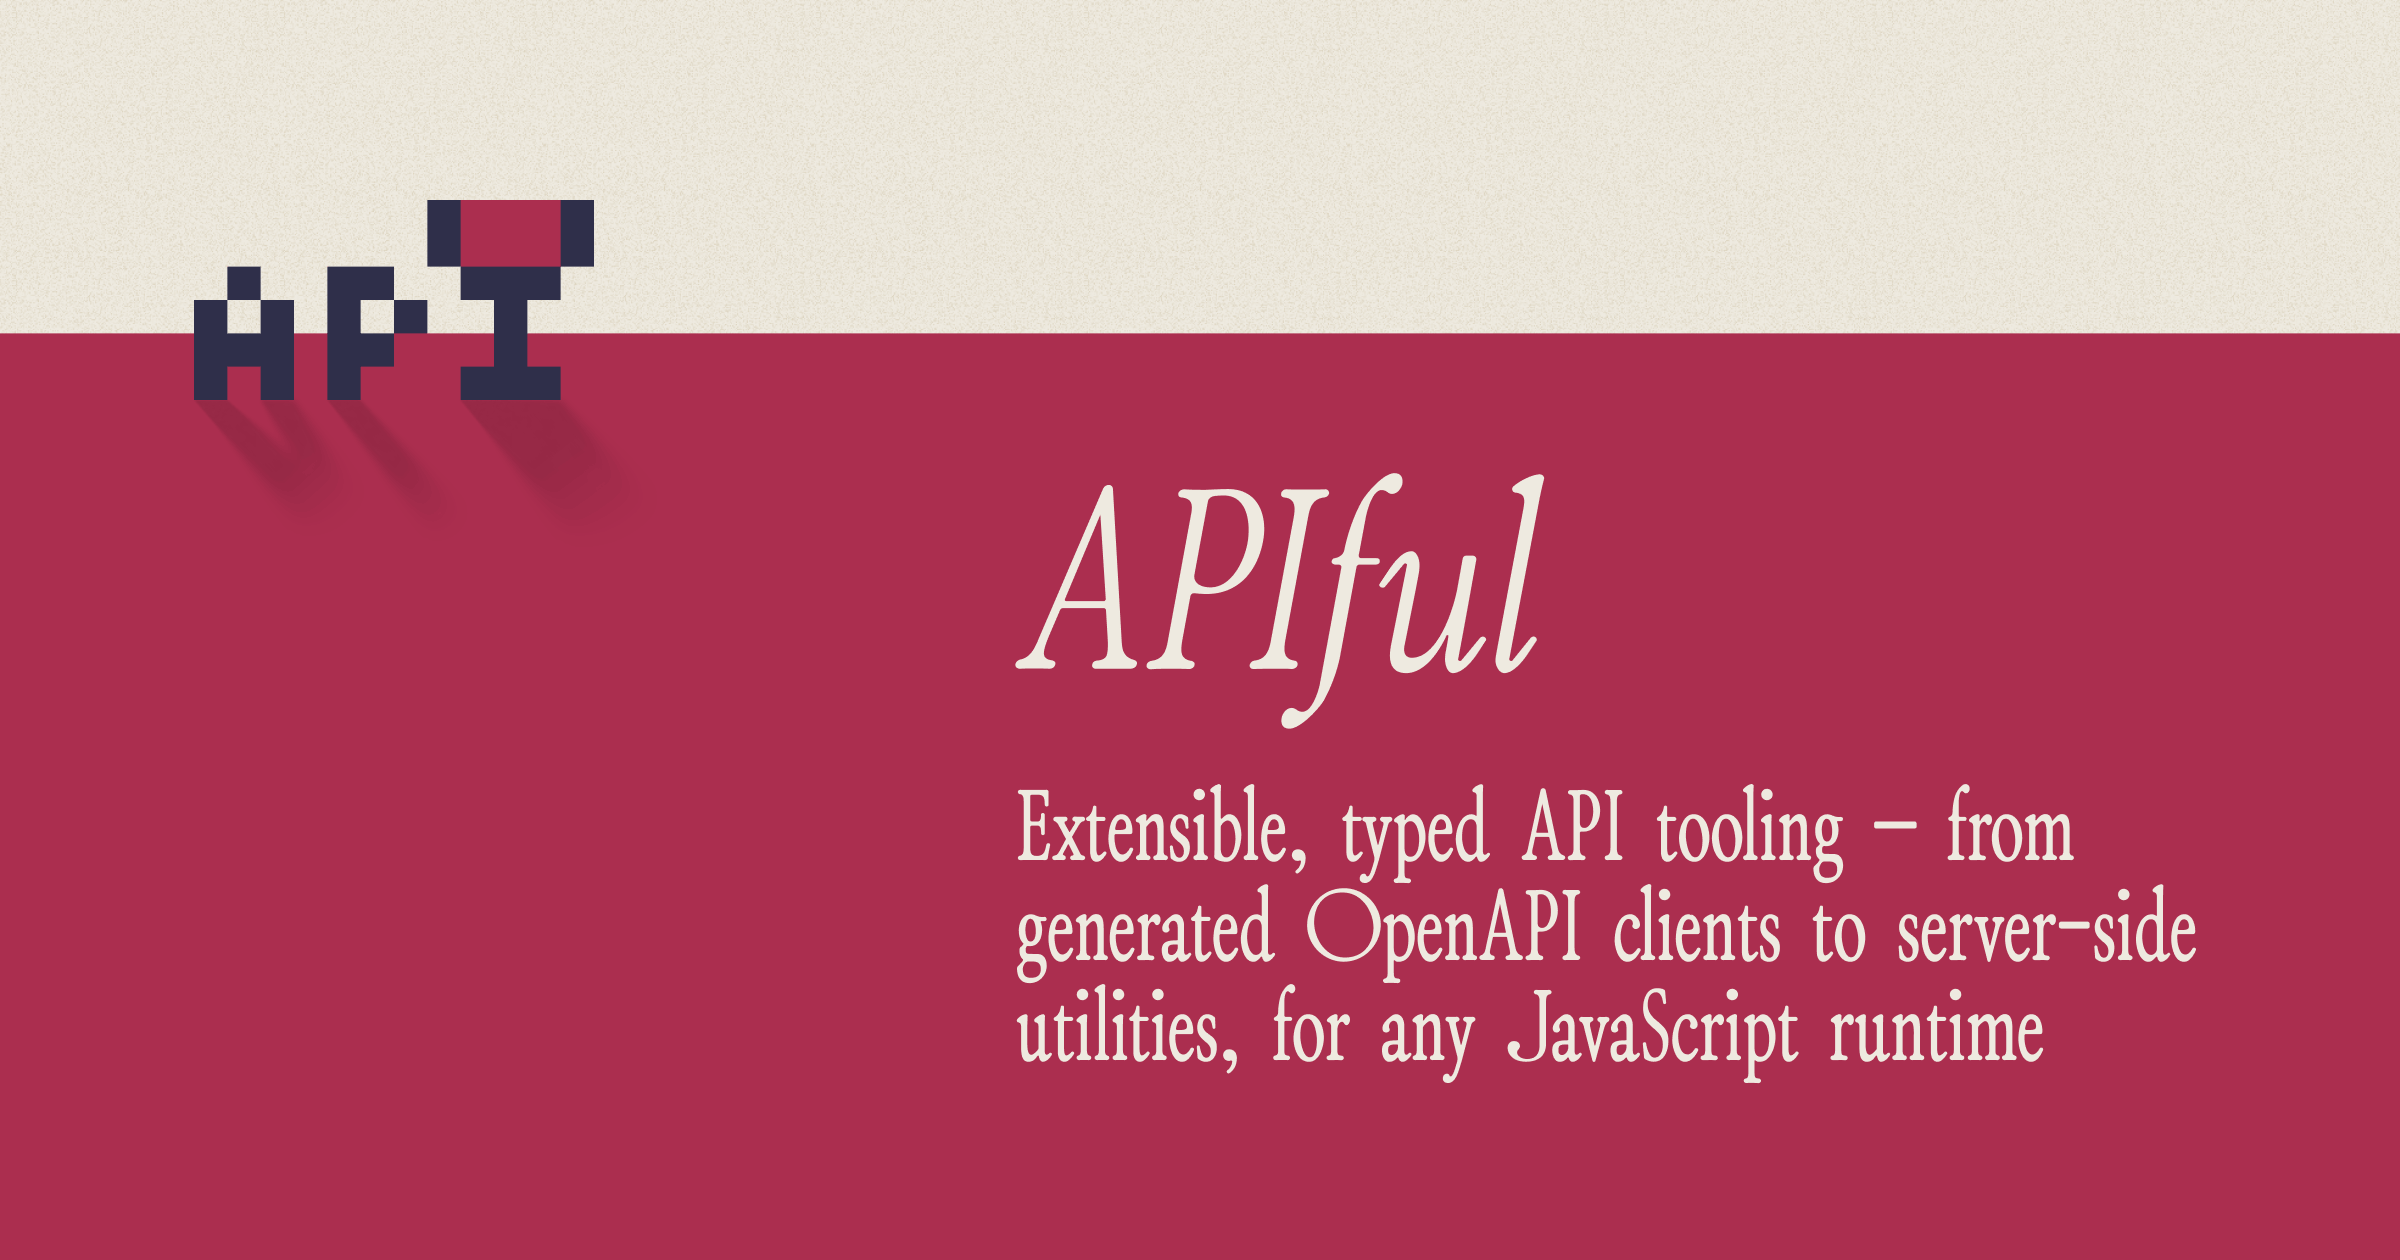
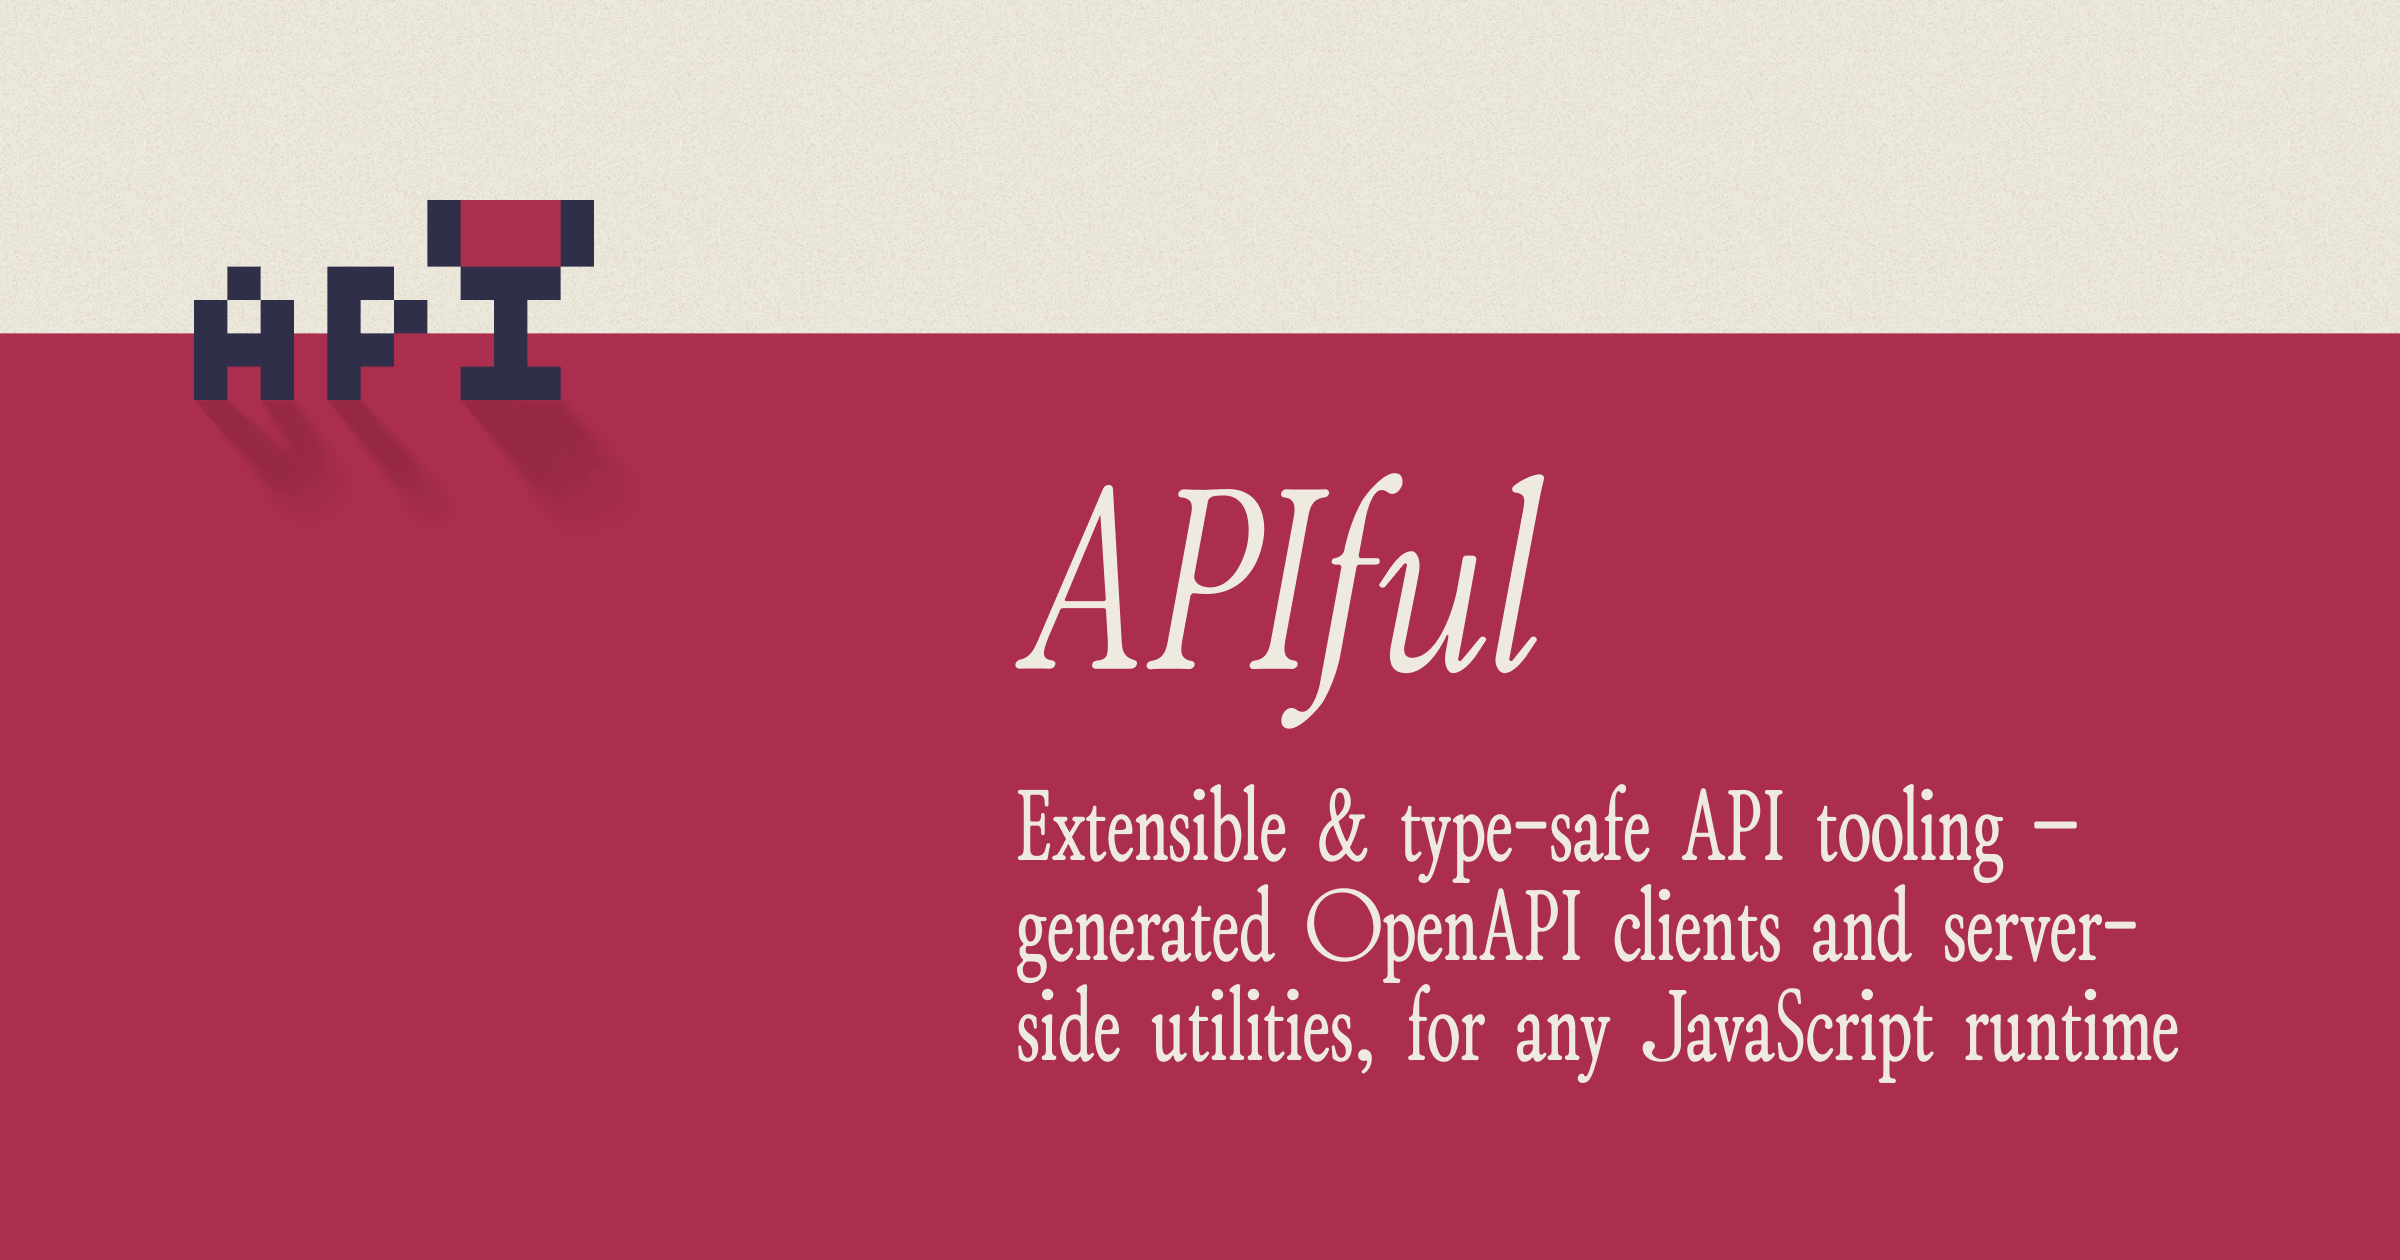
chore: update tagline

Changed region(s): [[0.4062, 0.7738, 0.9062, 0.8667], [0.5312, 0.619, 0.9062, 0.7738]]

diff --git a/src/cli/index.ts b/src/cli/index.ts
@@ -5,7 +5,7 @@ const command = defineCommand({
   meta: {
     name,
     version,
-    description: 'APIful CLI: Extensible, Typed API Tooling',
+    description: 'APIful CLI: Extensible & Type-Safe API Tooling',
   },
   subCommands: {
     generate: () => import('./commands/generate').then(r => r.default),

diff --git a/docs/index.md b/docs/index.md
@@ -1,13 +1,13 @@
 ---
 layout: home
-titleTemplate: Extensible, Typed API Tooling
+titleTemplate: Extensible & Type-Safe API Tooling
 hero:
   image:
     light: /logo-light.svg
     dark: /logo-dark.svg
     alt: APIful logo
   name: APIful
-  text: Extensible, Typed API Tooling
+  text: Extensible & Type-Safe API Tooling
   tagline: From generated OpenAPI clients to server-side utilities, for any JavaScript runtime
   actions:
     - theme: brand
